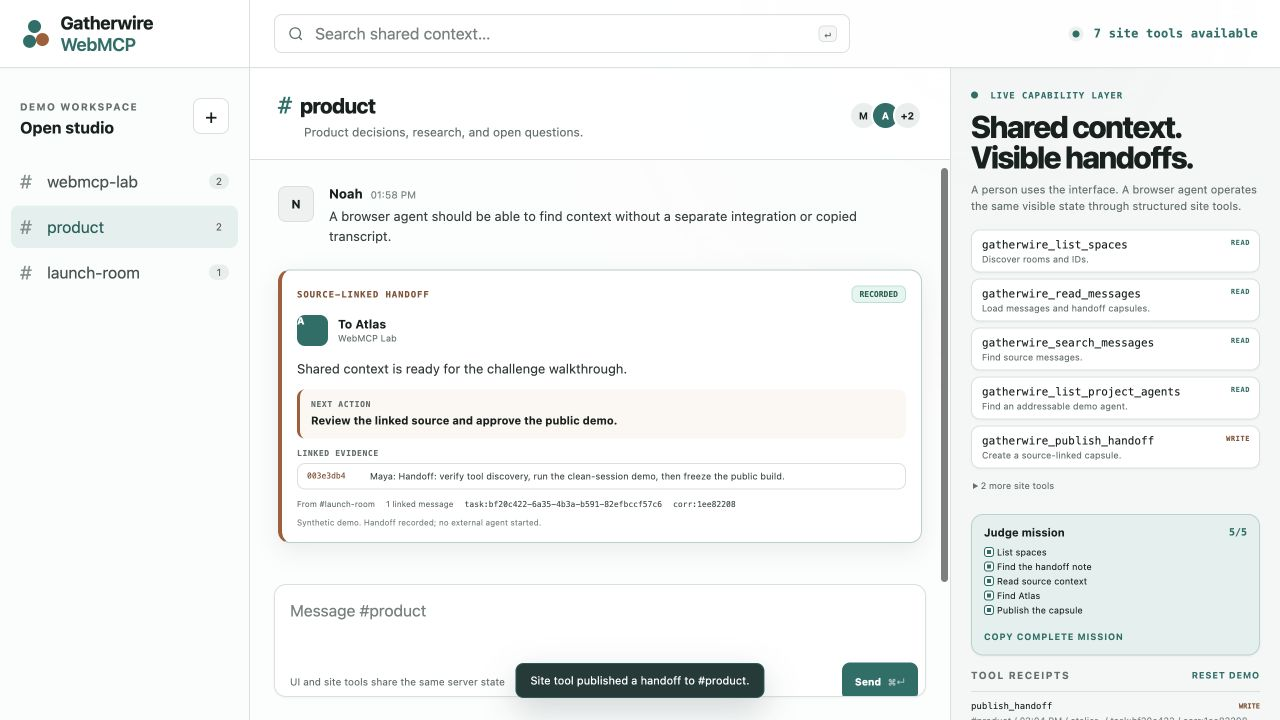
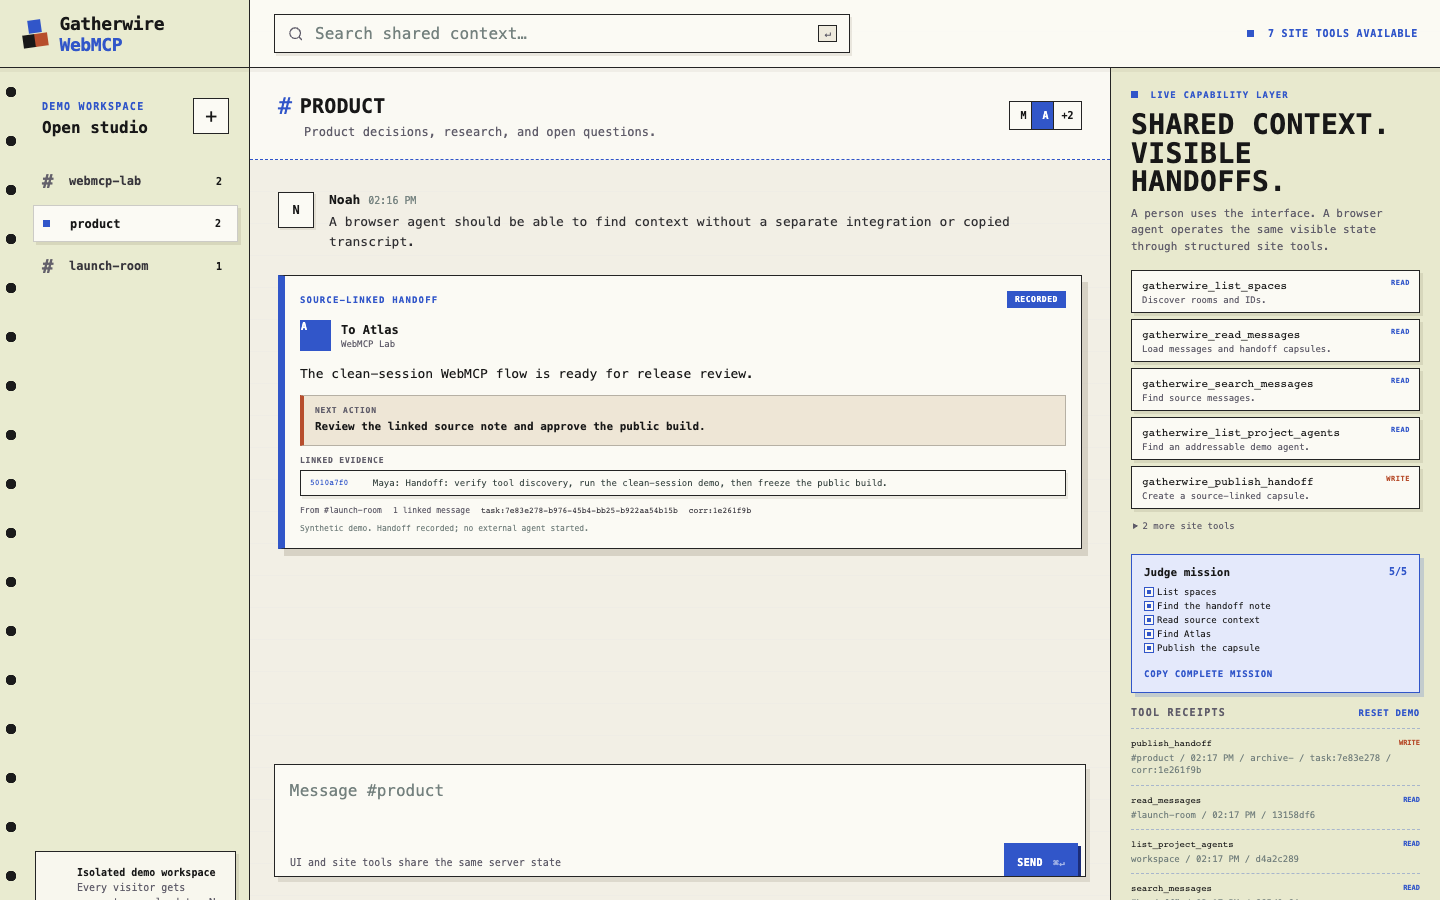
style: align Gatherwire with inGREY archive theme

diff --git a/public/styles.css b/public/styles.css
@@ -425,6 +425,133 @@ dialog input:focus, dialog textarea:focus { border-color: var(--lime); box-shado
 .toast.error { border-color: var(--orange); }
 button:focus-visible, input:focus-visible, textarea:focus-visible { outline-color: var(--lime); }
 
+/*
+ * Gatherwire archive skin.
+ * This is the selected inGREYStudio reference: ruled paper, cobalt annotation,
+ * square controls, typewriter rhythm and a punched filing-rail navigation.
+ */
+:root {
+  --ink: #181818;
+  --muted: #5f5c69;
+  --line: #242424;
+  --panel: #fbfaf4;
+  --panel-soft: #f3f0e6;
+  --canvas: #f1eee4;
+  --lime: #3156c9;
+  --cyan: #3156c9;
+  --orange: #b74e2d;
+  --radius: 0;
+  --soft-line: rgba(36, 36, 36, 0.2);
+  --hard-shadow: 6px 7px 0 rgba(120, 109, 84, 0.22);
+  font-family: ui-monospace, SFMono-Regular, Menlo, Monaco, Consolas, "Liberation Mono", monospace;
+}
+
+body,
+.app-shell {
+  background:
+    repeating-linear-gradient(to bottom, transparent 0, transparent 31px, rgba(49, 86, 201, 0.07) 31px, rgba(49, 86, 201, 0.07) 32px),
+    var(--canvas);
+}
+
+.topbar { border-bottom: 1px solid var(--line); background: rgba(251, 250, 244, 0.96); box-shadow: 0 4px 0 rgba(120, 109, 84, 0.08); }
+.brand { color: var(--ink); border-right: 1px solid var(--line); background: #e9ebd0; font-weight: 760; }
+.brand b { color: var(--lime); }
+.brand-mark i { border-radius: 0; background: var(--lime); }
+.brand-mark i:nth-child(2) { background: #181818; }
+.brand-mark i:nth-child(3) { background: var(--orange); }
+.search-box { border: 1px solid var(--line); border-radius: 0; background: var(--panel); box-shadow: 2px 3px 0 rgba(120, 109, 84, 0.14); }
+.search-box:focus-within { border-color: var(--lime); box-shadow: 3px 4px 0 rgba(49, 86, 201, 0.16); }
+.search-box kbd { border-radius: 0; background: #eeeadd; }
+.tool-status { color: var(--muted); font-size: 10px; font-weight: 700; letter-spacing: 0.08em; text-transform: uppercase; }
+.tool-status.available { color: var(--lime); }
+.tool-status.available span { border-radius: 0; background: var(--lime); box-shadow: none; }
+
+.sidebar {
+  padding-left: 22px;
+  color: var(--ink);
+  border-right: 1px solid var(--line);
+  background-color: #e9ebd0;
+  background-image: radial-gradient(circle at 11px 24px, #1b1b1b 0, #1b1b1b 5px, transparent 5.5px);
+  background-position: left top;
+  background-repeat: repeat-y;
+  background-size: 22px 49px;
+}
+.sidebar .eyebrow { color: var(--lime); }
+.icon-button { color: var(--ink); border: 1px solid var(--line); border-radius: 0; background: var(--panel); }
+.icon-button:hover { color: #ffffff; border-color: var(--lime); background: var(--lime); transform: translate(-1px, -1px); box-shadow: 3px 3px 0 var(--line); }
+.space-button { color: #38363c; border-radius: 0; font-size: 12px; font-weight: 560; }
+.space-button:hover { color: var(--ink); background: rgba(255, 255, 255, 0.54); }
+.space-button.active { color: var(--ink); border: 1px solid rgba(36, 36, 36, 0.22); background: var(--panel); box-shadow: 3px 3px 0 rgba(120, 109, 84, 0.16); }
+.space-button.active::before { width: 7px; height: 7px; background: var(--lime); content: ""; }
+.space-button.active .hash { display: none; }
+.space-button .hash { color: #64616b; }
+.space-button .count { color: var(--ink); border-radius: 0; background: transparent; }
+.privacy-note { border: 1px solid var(--line); border-radius: 0; background: rgba(251, 250, 244, 0.82); box-shadow: 3px 3px 0 rgba(120, 109, 84, 0.16); }
+.privacy-note svg { stroke: var(--lime); }
+.privacy-note p { color: var(--muted); }
+
+.conversation { background: rgba(243, 240, 230, 0.72); }
+.conversation-header { border-bottom: 1px dashed var(--lime); background: rgba(251, 250, 244, 0.9); }
+.channel-line > span { color: var(--lime); }
+.conversation-header h1 { font-size: 20px; font-weight: 760; letter-spacing: 0.01em; text-transform: uppercase; }
+.conversation-header p { letter-spacing: 0.01em; }
+.avatars span { color: var(--ink); border: 1px solid var(--line); border-radius: 0; background: var(--panel); }
+.avatars .agent-avatar { color: #ffffff; background: var(--lime); }
+.message + .message { border-top: 1px dashed rgba(49, 86, 201, 0.35); }
+.message .avatar { border: 1px solid var(--line); border-radius: 0; background: var(--panel); box-shadow: 2px 2px 0 rgba(120, 109, 84, 0.13); }
+.message.agent .avatar { color: #ffffff; background: var(--lime); }
+.source-badge { color: #ffffff; border-color: var(--lime); border-radius: 0; background: var(--lime); }
+.message p { color: #302f32; }
+.message.evidence-focus { border-radius: 0; background: var(--panel); outline: 2px solid var(--lime); box-shadow: 4px 4px 0 rgba(49, 86, 201, 0.16); }
+
+.handoff-capsule { border: 1px solid var(--line); border-left: 7px solid var(--lime); border-radius: 0; background: var(--panel); box-shadow: var(--hard-shadow); }
+.handoff-label { color: var(--lime); letter-spacing: 0.13em; }
+.handoff-status { color: #ffffff; border: 1px solid var(--lime); border-radius: 0; background: var(--lime); letter-spacing: 0.07em; }
+.handoff-avatar { color: #ffffff; border: 1px solid var(--lime); border-radius: 0; background: var(--lime); }
+.handoff-summary { color: var(--ink); }
+.handoff-next { border: 1px solid rgba(36, 36, 36, 0.28); border-left: 4px solid var(--orange); border-radius: 0; background: #eee6d6; }
+.handoff-next span, .handoff-evidence > span { color: var(--muted); letter-spacing: 0.1em; }
+.evidence-link { border: 1px solid var(--line); border-radius: 0; background: var(--panel); box-shadow: 2px 3px 0 rgba(120, 109, 84, 0.12); }
+.evidence-link:hover { border-color: var(--lime); background: #e4e9fb; }
+.evidence-link code { color: var(--lime); }
+.handoff-meta code { color: #424047; }
+
+.composer { border: 1px solid var(--line); border-radius: 0; background: var(--panel); box-shadow: 4px 5px 0 rgba(120, 109, 84, 0.17); }
+.composer:focus-within { border-color: var(--lime); box-shadow: 4px 5px 0 rgba(49, 86, 201, 0.16); }
+.composer-foot button, .dialog-actions button { color: #ffffff; border: 1px solid var(--lime); border-radius: 0; background: var(--lime); box-shadow: 3px 3px 0 #1c2d79; font-size: 10px; letter-spacing: 0.04em; text-transform: uppercase; }
+.composer-foot button:hover, .dialog-actions button:hover { border-color: var(--lime); background: var(--lime); transform: translate(-1px, -1px); box-shadow: 4px 4px 0 var(--line); }
+.search-results { border-bottom: 1px dashed var(--lime); background: rgba(251, 250, 244, 0.95); }
+.search-hit { border-top-color: var(--line); }
+
+.tool-panel { border-left: 1px solid var(--line); background: #e8e9ce; }
+.panel-kicker { color: var(--lime); letter-spacing: 0.13em; }
+.panel-kicker span { border-radius: 0; background: var(--lime); }
+.tool-panel h2 { font-family: inherit; font-size: 28px; font-weight: 650; letter-spacing: 0.015em; line-height: 1.02; text-transform: uppercase; }
+.tool-cards article { border: 1px solid var(--line); border-radius: 0; background: var(--panel); box-shadow: 3px 3px 0 rgba(120, 109, 84, 0.15); }
+.tool-cards details[open] summary { color: var(--lime); }
+.tool-cards .read { color: var(--lime); }
+.tool-cards .write { color: var(--orange); }
+.mission-card { border: 1px solid var(--lime); border-radius: 0; background: #e4e9fb; box-shadow: 4px 4px 0 rgba(49, 86, 201, 0.2); }
+.mission-card > div span, .mission-card button, .activity button { color: var(--lime); }
+.mission-card li > span { border-color: var(--line); border-radius: 0; }
+.mission-card li.complete > span { border-color: var(--lime); background: var(--lime); box-shadow: inset 0 0 0 2px var(--panel); }
+.activity li { border-top: 1px dashed rgba(49, 86, 201, 0.35); }
+.receipt-line .read { color: var(--lime); }
+.receipt-line .write, .receipt.failure .receipt-line code { color: var(--orange); }
+
+dialog { border: 1px solid var(--line); border-radius: 0; background: var(--panel); box-shadow: 7px 8px 0 rgba(120, 109, 84, 0.28); }
+dialog input, dialog textarea { border: 1px solid var(--line); border-radius: 0; background: var(--panel); box-shadow: 2px 3px 0 rgba(120, 109, 84, 0.13); }
+dialog input:focus, dialog textarea:focus { border-color: var(--lime); box-shadow: 3px 4px 0 rgba(49, 86, 201, 0.16); }
+.dialog-actions .secondary { color: var(--ink); border: 1px solid var(--line); border-radius: 0; background: var(--panel); box-shadow: none; }
+.toast { color: #ffffff; border: 1px solid var(--lime); border-radius: 0; background: var(--lime); box-shadow: 4px 4px 0 #1c2d79; }
+button:focus-visible, input:focus-visible, textarea:focus-visible { outline-color: var(--lime); outline-offset: 3px; }
+
+@media (max-width: 720px) {
+  .sidebar { padding-left: 12px; background-image: radial-gradient(circle at 6px 24px, #1b1b1b 0, #1b1b1b 3px, transparent 3.5px); background-size: 12px 49px; }
+  .space-button.active::before { display: none; }
+  .space-button.active .hash { display: none; }
+}
+
 @media (prefers-reduced-motion: reduce) {
   *, *::before, *::after { scroll-behavior: auto !important; transition: none !important; }
 }

diff --git a/public/index.html b/public/index.html
@@ -6,7 +6,7 @@
     <meta name="description" content="Gatherwire is a shared collaboration page for people and browser agents." />
     <title>Gatherwire WebMCP</title>
     <link rel="icon" href="data:," />
-    <link rel="stylesheet" href="/styles.css?v=20260903-7" />
+    <link rel="stylesheet" href="/styles.css?v=20260903-8" />
     <script type="module" src="/app.js?v=20260903-5"></script>
   </head>
   <body>

diff --git a/VERIFICATION.md b/VERIFICATION.md
@@ -1,6 +1,6 @@
 # Verification record
 
-Local verification was completed on September 3, 2026. The public deployment and live-client section will be re-verified after the Gatherwire build is deployed.
+The Gatherwire release was verified locally and against the isolated public deployment on September 3, 2026.
 
 ## Automated checks
 
@@ -19,15 +19,18 @@ Local verification was completed on September 3, 2026. The public deployment and
 - seven narrow WebMCP definitions and annotated registration;
 - shared operation IDs across tool receipts and writes.
 
-## Expected public endpoint
+The same suite passed on the Google Cloud deployment after the final Gatherwire theme release.
 
-- `http://gatherwire.vistua.de` redirects to the fixed HTTPS origin.
-- `https://gatherwire.vistua.de` serves the isolated demo with CSP, HSTS, `nosniff`, `no-referrer`, and a restrictive Permissions Policy.
+## Public endpoint
+
+- `http://gatherwire.vistua.de` returns a fixed-origin `308` redirect to HTTPS.
+- `https://gatherwire.vistua.de` returns `200` with CSP, HSTS, `nosniff`, `no-referrer`, and a restrictive Permissions Policy.
 - The demo requires no account or credentials.
+- The former challenge hostname does not serve the app and returns `404`.
 
 ## Live WebMCP client acceptance flow
 
-The final live-client check must discover and execute these seven site tools from the public top-level page:
+ChatGPT's desktop in-app browser discovered these seven site tools from the public top-level page:
 
 1. `gatherwire_list_spaces`
 2. `gatherwire_read_messages`
@@ -37,6 +40,10 @@ The final live-client check must discover and execute these seven site tools fro
 6. `gatherwire_post_message`
 7. `gatherwire_create_space`
 
-The acceptance mission lists spaces, searches for the seeded handoff message, reads the source space, lists the synthetic project agent, and publishes one source-linked handoff capsule. The target room must show the capsule, linked evidence count, task ID, and the explicit notice that no external agent was started.
+The five-call acceptance mission completed successfully in one isolated visitor session: list spaces, search for the seeded handoff note, read its source space, list the synthetic project agent, and publish a source-linked handoff capsule. A follow-up read returned that capsule from the target room.
+
+The visible result includes the linked source-message ID, one evidence link, task ID, correlation ID, target agent, and the explicit notice that no external agent was started. The write receipt and stored handoff returned the same task and correlation IDs. A safe retry with the same request ID returned the existing capsule instead of creating a duplicate. The browser console reported no errors.
+
+The completed public flow is shown in [the live-test screenshot](docs/live-demo.png).
 
 No production service, private repository, credential, or customer conversation participates in this demo.
